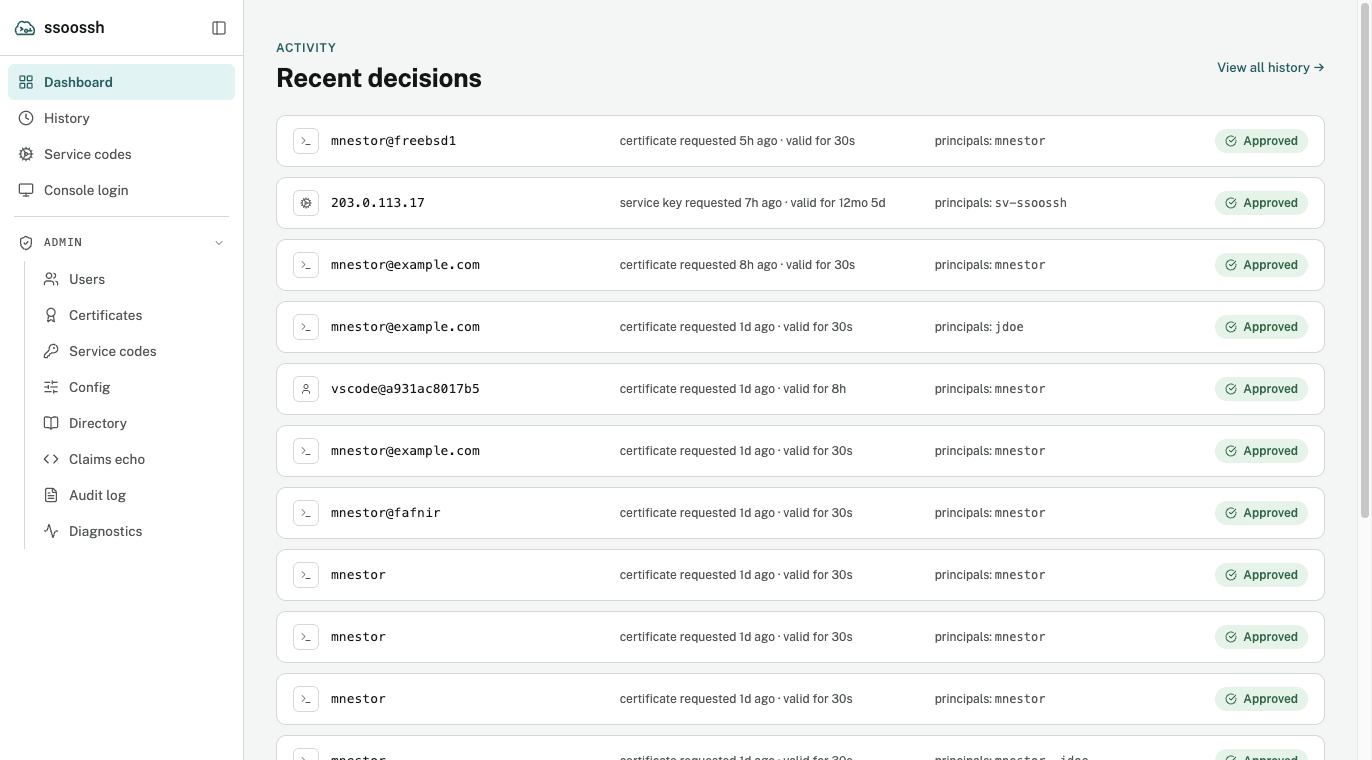
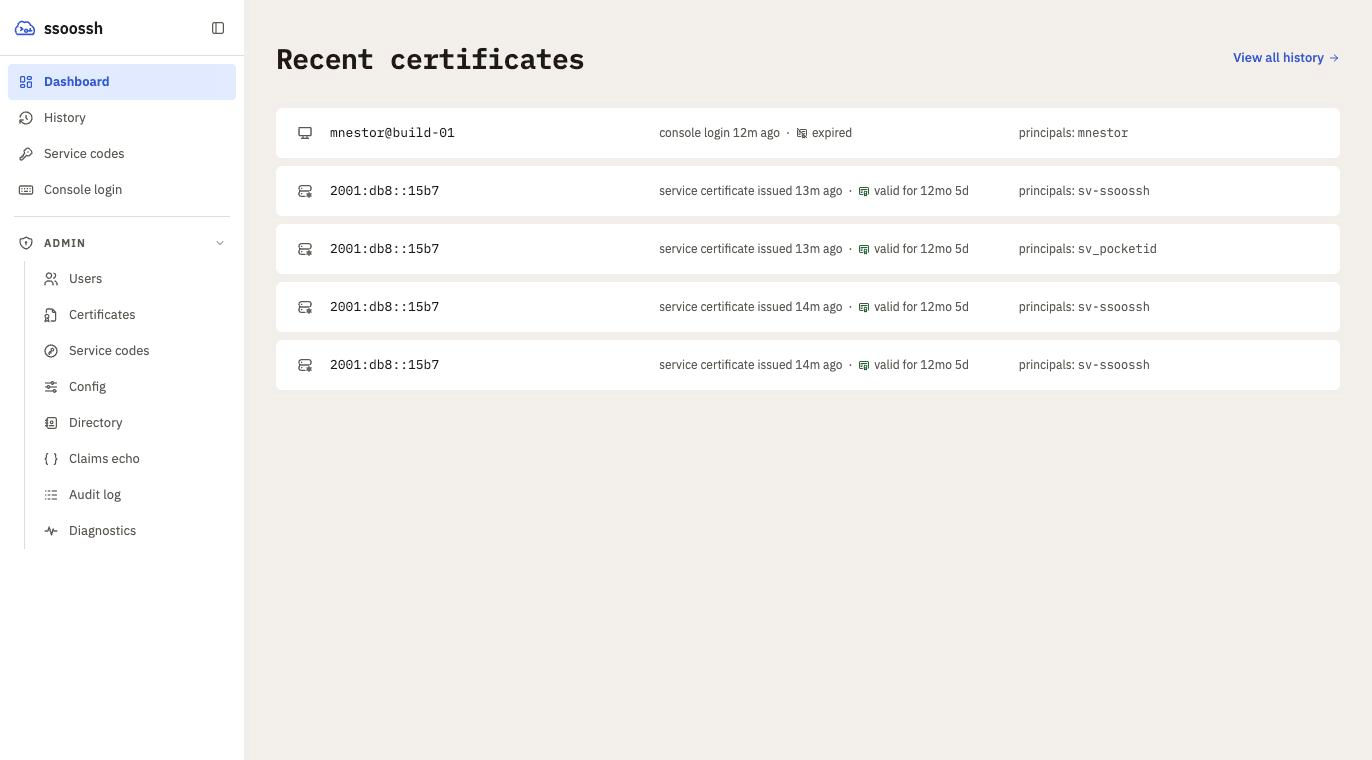
docs(user-docs): refresh screenshots for the overhauled UI (#190)
Recapture all 21 user-docs screenshots from the dev server after the web
UI overhaul, in light theme at 1372px wide. Tall pages are composited
from scrolled tiles with the rail made non-sticky, so the rail no longer
repeats partway down the image as it did in the old cert-detail shot.
Domains, email addresses and public IPs are rewritten to documentation
values before capture.

Rewrite the alt text of 17 images whose content changed: the History
filters, the console code rule, the approval page fields, the
Diagnostics results, the Preferences and Account cards, and the admin
pages.

Closes #190

Claude-Session: https://claude.ai/code/session_016DpTiKN3YqsXrdJdnd55aT

diff --git a/user-docs/src/content/docs/guides/approving.md b/user-docs/src/content/docs/guides/approving.md
@@ -60,7 +60,7 @@ signed asynchronously and delivered to the waiting client over its own stream.
 Loading the page is itself the claim on the request. A second person opening
 the same link is refused before any button exists to click.
 
-![The approval page for a user certificate: a Pending chip, the principals to include as toggle chips, the account, command, host, platform, client and process ids the client reported, the lifetime, the requesting and registered addresses, the deadline, the public key, the extensions with two struck through as not permitted, a "Less than was requested" notice, and Deny and Approve buttons](../../../assets/screens/approve-user.png)
+![The approval page for a user certificate in the Advanced view: a Pending chip and the request ID, the principals to include as toggle chips, the account, command, host, terminal, remote host, platform, client and process ids the client reported, the lifetime, the requesting and registered addresses, the deadline, the public key, the extensions with three struck through as not permitted, a "Less than was requested" notice, a warning to approve only a request you started yourself, and Deny and Approve buttons](../../../assets/screens/approve-user.png)
 
 <p class="screen-caption">A user certificate request. Everything under "reported by the client" is what the requesting machine said about itself. The struck-through entries are what this server's policy removed, and the notice at the bottom says so before you decide.</p>
 
@@ -169,7 +169,7 @@ person typing the same code is refused.
 Only ever enter a code from a screen you are standing at. A code someone reads
 or sends to you is a login on their machine, carrying your accounts.
 
-![The Console login page: a single code field showing the K7M4-QP2X placeholder, a note that case does not matter and the letters I, L and O are never used, and a Continue button](../../../assets/screens/console.png)
+![The Console login page: a single code field showing the K7M4-QP2X placeholder, a note that case does not matter and that I, L and O count as 1 and 0, and a Continue button](../../../assets/screens/console.png)
 
 <p class="screen-caption">Console login. The code is eight characters in two groups; the alphabet leaves out the letters that look like digits.</p>
 
@@ -193,7 +193,7 @@ the rail, with preferences and sign-out.
 | **Service codes** | The service accounts you hold, then the codes approved for each |
 | **Account** (identity drop-up) | Your identity, the accounts you can mint certificates for, your service accounts, and your groups |
 
-![The History page: type filter chips for All, User, PAM, Console and Service, then a list of certificate rows each leading with user@host or an address, followed by what was requested and its lifetime, the principals, and an Approved badge](../../../assets/screens/history.png)
+![The History page: a search box, type filter chips for All, User, Service, PAM and Console, status chips for Any, Valid and Expired, outcome chips for Approved, Denied and Both, then a list of certificate rows each leading with user@host or an address, followed by what was issued and its lifetime, the principals, and an approved mark](../../../assets/screens/history.png)
 
 <p class="screen-caption">History. Every row leads with where the certificate came from, then what was requested and for how long, the principals it carries, and the decision.</p>
 
@@ -241,7 +241,7 @@ Email is optional and off unless the deployment turned it on. When it is on,
 this is where you choose which kinds you receive, one switch per kind, in two
 groups: **Service codes** and **Certificates issued to you**.
 
-![The Preferences page: an Email notifications card showing the address they are sent to and seven toggles, one per notification kind, each with a sentence saying when it is sent](../../../assets/screens/preferences.png)
+![The Preferences page: an Email notifications card showing the address they are sent to, a Simplified or Advanced email detail switch, and seven toggles grouped under Service codes and Certificates issued to you, each with a sentence saying when it is sent; below it a Display card with the Simplified or Advanced switch for the web pages](../../../assets/screens/preferences.png)
 
 <p class="screen-caption">Notification preferences. The page names the address the deployment will use, and says under each kind what would trigger it.</p>
 

diff --git a/user-docs/src/content/docs/operations/roles.md b/user-docs/src/content/docs/operations/roles.md
@@ -134,7 +134,7 @@ one. The roles nest, so an admin's account page reads `Admin` `SOC` `Auditor`
 and a SOC member's reads `SOC` `Auditor`. Someone who holds no privileged
 role sees no access row at all.
 
-![The account page: an Identity card with name, username, email, account identifier and an Access row of Admin, SOC and Auditor badges; a card listing the principals for user certificates and the service accounts; and a Groups card of group chips](../../../assets/screens/account.png)
+![The account page: an Identity card with name, username, email, account identifier and an Access row of Admin, SOC and Auditor badges; a card of the principals you can approve with; a Service accounts card; and a Groups card of group chips](../../../assets/screens/account.png)
 
 <p class="screen-caption">An admin's account page. The Access row names every role the session holds; the cards below it are what the server will put in, and consult for, this person's certificates.</p>
 
@@ -171,7 +171,7 @@ it written by a login or a sync rather than captured for the page:
   `ldap_sync`. That last one is the only source the sync will clear
   automatically.
 
-![A user's detail page: the OIDC record card with account identifier, username, name, created and last-updated times, and the other-accounts and service-accounts lists badged LDAP; a Group membership table with one OIDC row; and the top of the Directory record card](../../../assets/screens/admin-user.png)
+![A user's detail page: the OIDC record card with account identifier, username, name, created and last-updated times, and the other-accounts and service-accounts lists badged LDAP; a Group membership table with one OIDC row; and the Directory record card with the entry's identifier, distinguished name, when it was last seen and the stored field values](../../../assets/screens/admin-user.png)
 
 <p class="screen-caption">A user's page. The service accounts carry an LDAP badge because the configuration takes them from the directory; the OIDC value, had there been one, would be shown struck through beside it.</p>
 
@@ -190,7 +190,7 @@ connection string, the LDAP bind password, the SMTP password, and the HSM PIN.
 A redacted value still tells an admin whether the setting is configured,
 which keeps "is the client secret set?" answerable without disclosing it.
 
-![The Server configuration page: a filter box, a "Show unset keys" toggle, a count of keys set, and cards per section listing each key and value, with ldap.bind_password and ssh_key shown as [redacted] with a SECRET tag](../../../assets/screens/admin-config.png)
+![The Server configuration page: a filter box, a "Show unset keys" toggle, a count of keys set, and cards per section listing each key and value, with ssh_key and db.connection_string shown as [redacted] with a SECRET tag](../../../assets/screens/admin-config.png)
 
 <p class="screen-caption">The effective configuration, grouped by section. A secret shows as redacted with a tag, so its presence is visible and its value is not.</p>
 
@@ -201,7 +201,7 @@ not config text at all.
 
 ## Disabling a user
 
-![The Users page: a search box for name, username, email or subject, All/Active/Disabled filters, and a table of users with username, email, an Active badge and the created date](../../../assets/screens/admin-users.png)
+![The Users page: a search box for name, username, email or subject, All/Active/Disabled filters, and a table of users with name, username, email, an Active status badge and the first sign-in time](../../../assets/screens/admin-users.png)
 
 <p class="screen-caption">Admin → Users. A row opens the user's page, where the Disable control lives.</p>
 

diff --git a/user-docs/src/content/docs/guides/web-ui.md b/user-docs/src/content/docs/guides/web-ui.md
@@ -18,7 +18,7 @@ identity provider and takes you back afterwards. If a deployment sets a
 consent notice, it stands in front of the sign-in button and has to be
 accepted before anything else is clickable.
 
-![The sign-in screen: the ssoossh mark, a "Sign in to ssoossh" heading, and a Continue link for a session that already exists](../../../assets/screens/login.png)
+![The sign-in screen: the ssoossh mark, a "Sign in to ssoossh" heading, a line naming the account that is already signed in, a Continue button and a Sign out link](../../../assets/screens/login.png)
 
 <p class="screen-caption">The sign-in screen. Opening an approval link while signed out lands here first and returns to the request afterwards.</p>
 
@@ -32,7 +32,7 @@ Signed in, the app has one navigation surface: the rail down the left edge.
 It holds the brand, every destination, and -- at its bottom edge -- your
 identity, which opens into the account controls.
 
-![The dashboard with the navigation rail expanded: Dashboard, History, Service codes and Console login above an Admin group of eight entries, and the signed-in identity at the bottom](../../../assets/screens/dashboard.png)
+![The dashboard with the navigation rail expanded: Dashboard, History, Service codes and Console login above an Admin group of eight entries, the signed-in identity at the bottom, and a Recent certificates list filling the rest of the page](../../../assets/screens/dashboard.png)
 
 <p class="screen-caption">The dashboard, with the rail expanded and the Admin group open. Someone without an admin role sees the rail without that group.</p>
 
@@ -61,7 +61,7 @@ The rail has a few behaviours worth knowing:
 
 ![The rail collapsed to a 60-pixel strip of icons, with the dashboard content filling the rest of the width](../../../assets/screens/rail-collapsed.png)
 
-![The identity row's drop-up menu open over the rail, listing the account, Preferences, the theme switch and Sign out](../../../assets/screens/rail-user-menu.png)
+![The identity row's drop-up menu open over the rail: the signed-in name and email, which open the account page, then Preferences, the theme switch and Sign out](../../../assets/screens/rail-user-menu.png)
 
 </div>
 
@@ -106,7 +106,7 @@ detail can be reloaded, bookmarked, pasted into a ticket, and left with the
 browser's own Back button. Each carries a back chip naming the list it was
 opened from.
 
-![A certificate's detail page: type and status chips, the certificate card with principals, key ID, serial, fingerprint and validity, then the decision card with the approver, source address, approver groups and the lifetime policy that applied](../../../assets/screens/cert-detail.png)
+![A PAM certificate's detail page in the Advanced view: a header strip with the type, the reported host, an Expired chip and the request ID; the Certificate card with principals, key ID, serial, fingerprint and valid period; the Decision card with the approver, source address, approver groups, principals granted and the lifetime policy that applied; and a What asked for it card with the service, terminal, command, machine ID and client the host reported](../../../assets/screens/cert-detail.png)
 
 <p class="screen-caption">A PAM certificate's detail page. The "What asked for it" section at the bottom is what the requesting host reported about itself, labelled as never verified.</p>
 

diff --git a/user-docs/src/content/docs/guides/service-accounts.md b/user-docs/src/content/docs/guides/service-accounts.md
@@ -244,7 +244,7 @@ fingerprint of the keypair the code is bound to), the code itself as one
 options, everyone who holds the account, the notification address, and a
 redemption history naming each fetch's address and serial. Never the code.
 
-![A service code's page: What it hands out (principal, certificate life, key ID, bound key), The code itself (valid period, approved by, certificate options), Who has access (two holders), a Notifications address field, and a Redemption history entry with its address and serial](../../../assets/screens/service-code.png)
+![A service code's page in the Advanced view: What it hands out (principal, certificate life, key ID, bound key), The code itself (valid period, approved by, certificate options), Who has access (one holder), a Notifications address field, and a Redemption history with three entries, each with its address and serial](../../../assets/screens/service-code.png)
 
 <p class="screen-caption">A holder's view of an expired code. A live one carries an <strong>Expire this code</strong> control below the notification address; it asks for a reason, and the reason is recorded.</p>
 
@@ -266,7 +266,7 @@ certificate request id, and the approver's username or email, and it is a
 substring match, so the shortened id the code's page shows is enough. That
 id is a button: clicking it copies the whole value.
 
-![Admin → Service codes: a search box accepting an enrollment ID, account, key ID, request ID or approver, and one code row summarising the account, who approved it, the certificate lifetime and its redemption count](../../../assets/screens/admin-service-codes.png)
+![Admin, Service codes: a search box accepting an enrollment ID, account, key ID, request ID or approver, and a row per code summarising the account, who approved it and when, the certificate lifetime and its redemption count](../../../assets/screens/admin-service-codes.png)
 
 <p class="screen-caption">The admin view of every approved code across all accounts. The search is a substring match on any of the identifiers an operator is likely to be holding.</p>
 

diff --git a/user-docs/src/content/docs/concepts/service-certificates.md b/user-docs/src/content/docs/concepts/service-certificates.md
@@ -200,7 +200,7 @@ report the address a service certificate was actually fetched from, which is a
 different fact from the approval's source IP -- that one belongs to the human
 who approved the code and is identical on every certificate it mints.
 
-![An admin's view of a service code: what it hands out, the code's valid period and approver, who has access, an admin actions section with the notification address, and the redemption history with the address and serial of each fetch](../../../assets/screens/admin-service-code.png)
+![An admin's view of a service code in the Advanced view: an Expire this code button, what it hands out, the code's valid period and approver, who has access, a Notifications card with the address field, and the redemption history with the address and serial of each fetch](../../../assets/screens/admin-service-code.png)
 
 <p class="screen-caption">A code's record as SOC sees it. The redemption history is the retrieval log; each entry's serial is the one on the certificate that fetch produced.</p>
 

diff --git a/user-docs/src/content/docs/operations/diagnostics.md b/user-docs/src/content/docs/operations/diagnostics.md
@@ -12,7 +12,7 @@ them look like success. **Admin → Diagnostics** runs four read-only checks
 against the deployment as it is actually reached, and says which of these
 has happened.
 
-![The Diagnostics page after a run: "Probed https://ssh-dev.example.com" and four cards -- Public URL reachability, Proxy trust and client IP, Security header hygiene, CORS / edge header attribution -- each with an OK badge and its findings](../../../assets/screens/admin-diagnostics.png)
+![The Diagnostics page after a run: a summary of four checks with one warning, "Probed https://ssh-dev.example.com", then four cards: Public URL reachability with a Warning badge and how to fix it, Proxy trust and client IP and CORS / edge header attribution each with an OK badge, and Security header hygiene marked Skipped](../../../assets/screens/admin-diagnostics.png)
 
 <p class="screen-caption">A clean run. Each card carries its findings, and a check that is not clean also carries what to change.</p>
 

diff --git a/user-docs/src/content/docs/operations/audit-log.md b/user-docs/src/content/docs/operations/audit-log.md
@@ -232,7 +232,7 @@ current state.
 
 ## Reading it
 
-![The Audit log page: recent events newest first, each with an actor, a plain-language action, the action name and time, and the event's fields listed underneath](../../../assets/screens/admin-audit.png)
+![The Audit log page: Action and Source address filters, then recent events newest first, each with an actor, a plain-language action, the action name and time, and the event's fields listed underneath](../../../assets/screens/admin-audit.png)
 
 <p class="screen-caption">The audit view. Each event names its actor, says what happened in words, and lists the payload underneath; the action string on the right is what the shipped log carries.</p>
 
